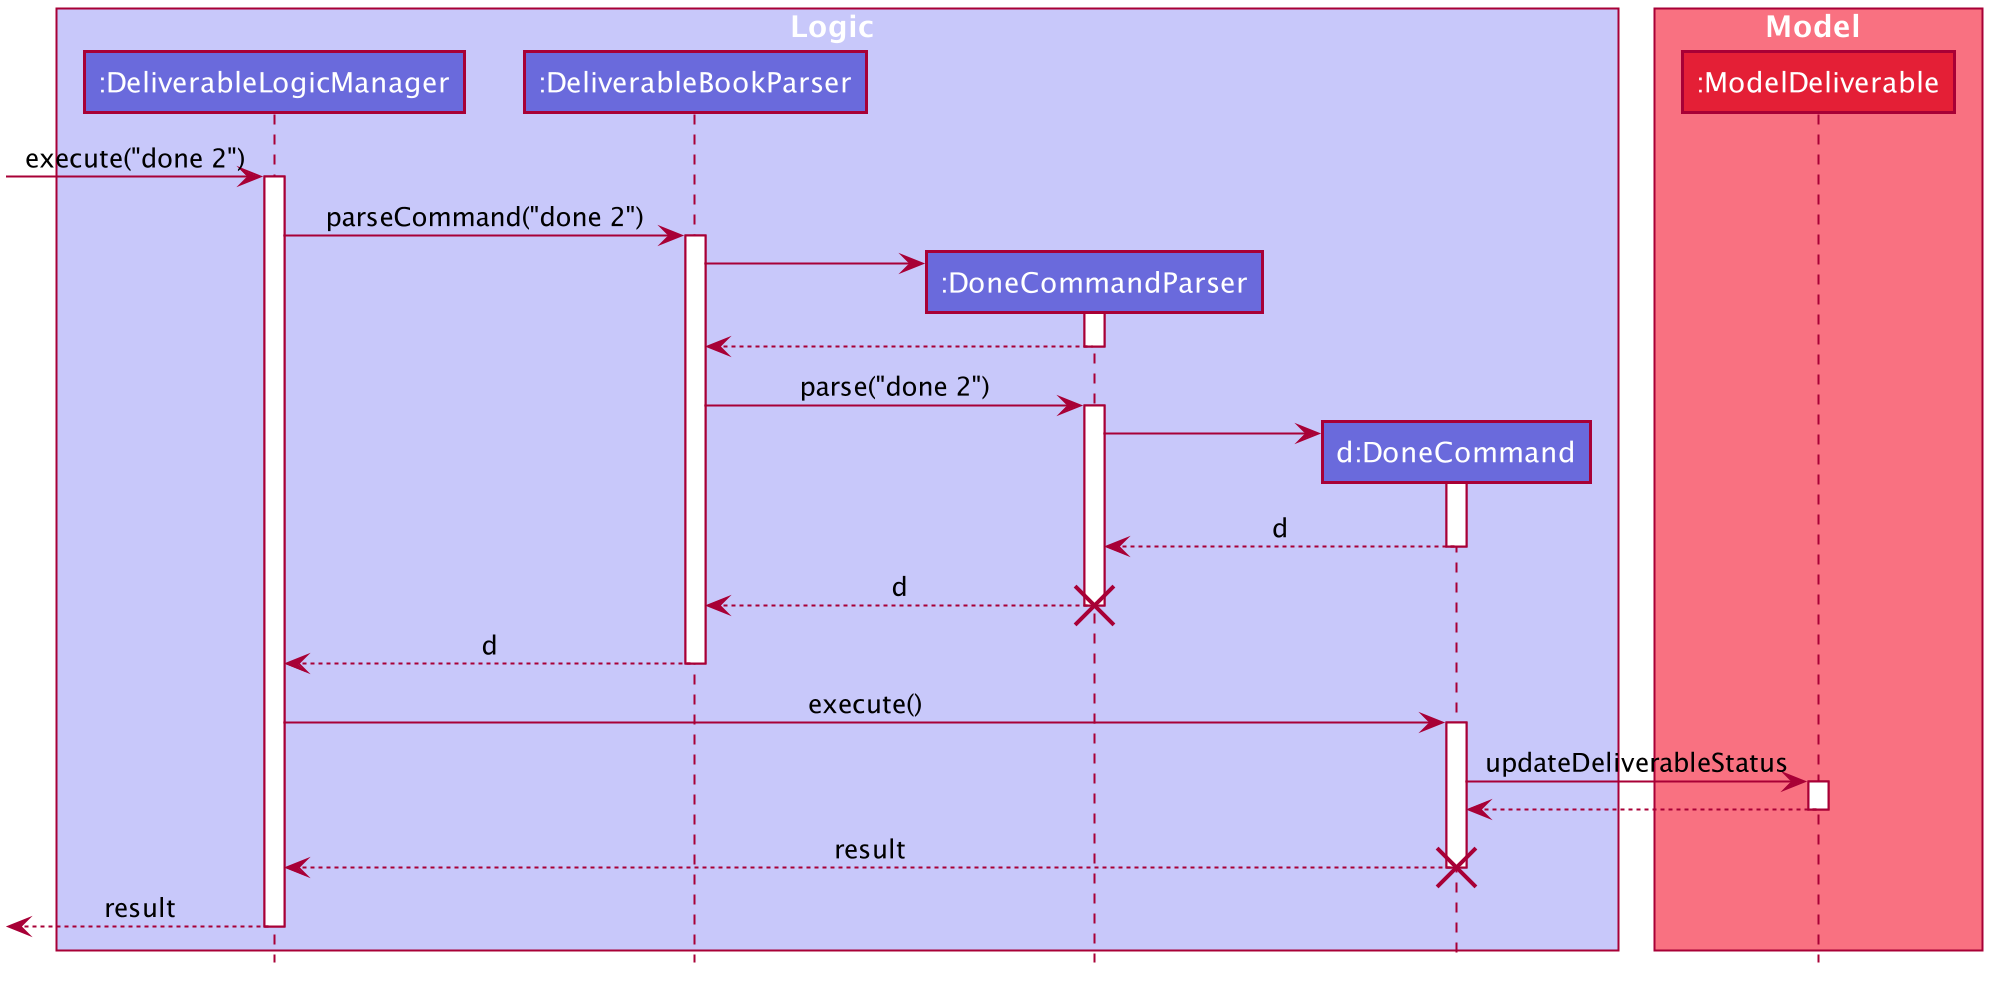
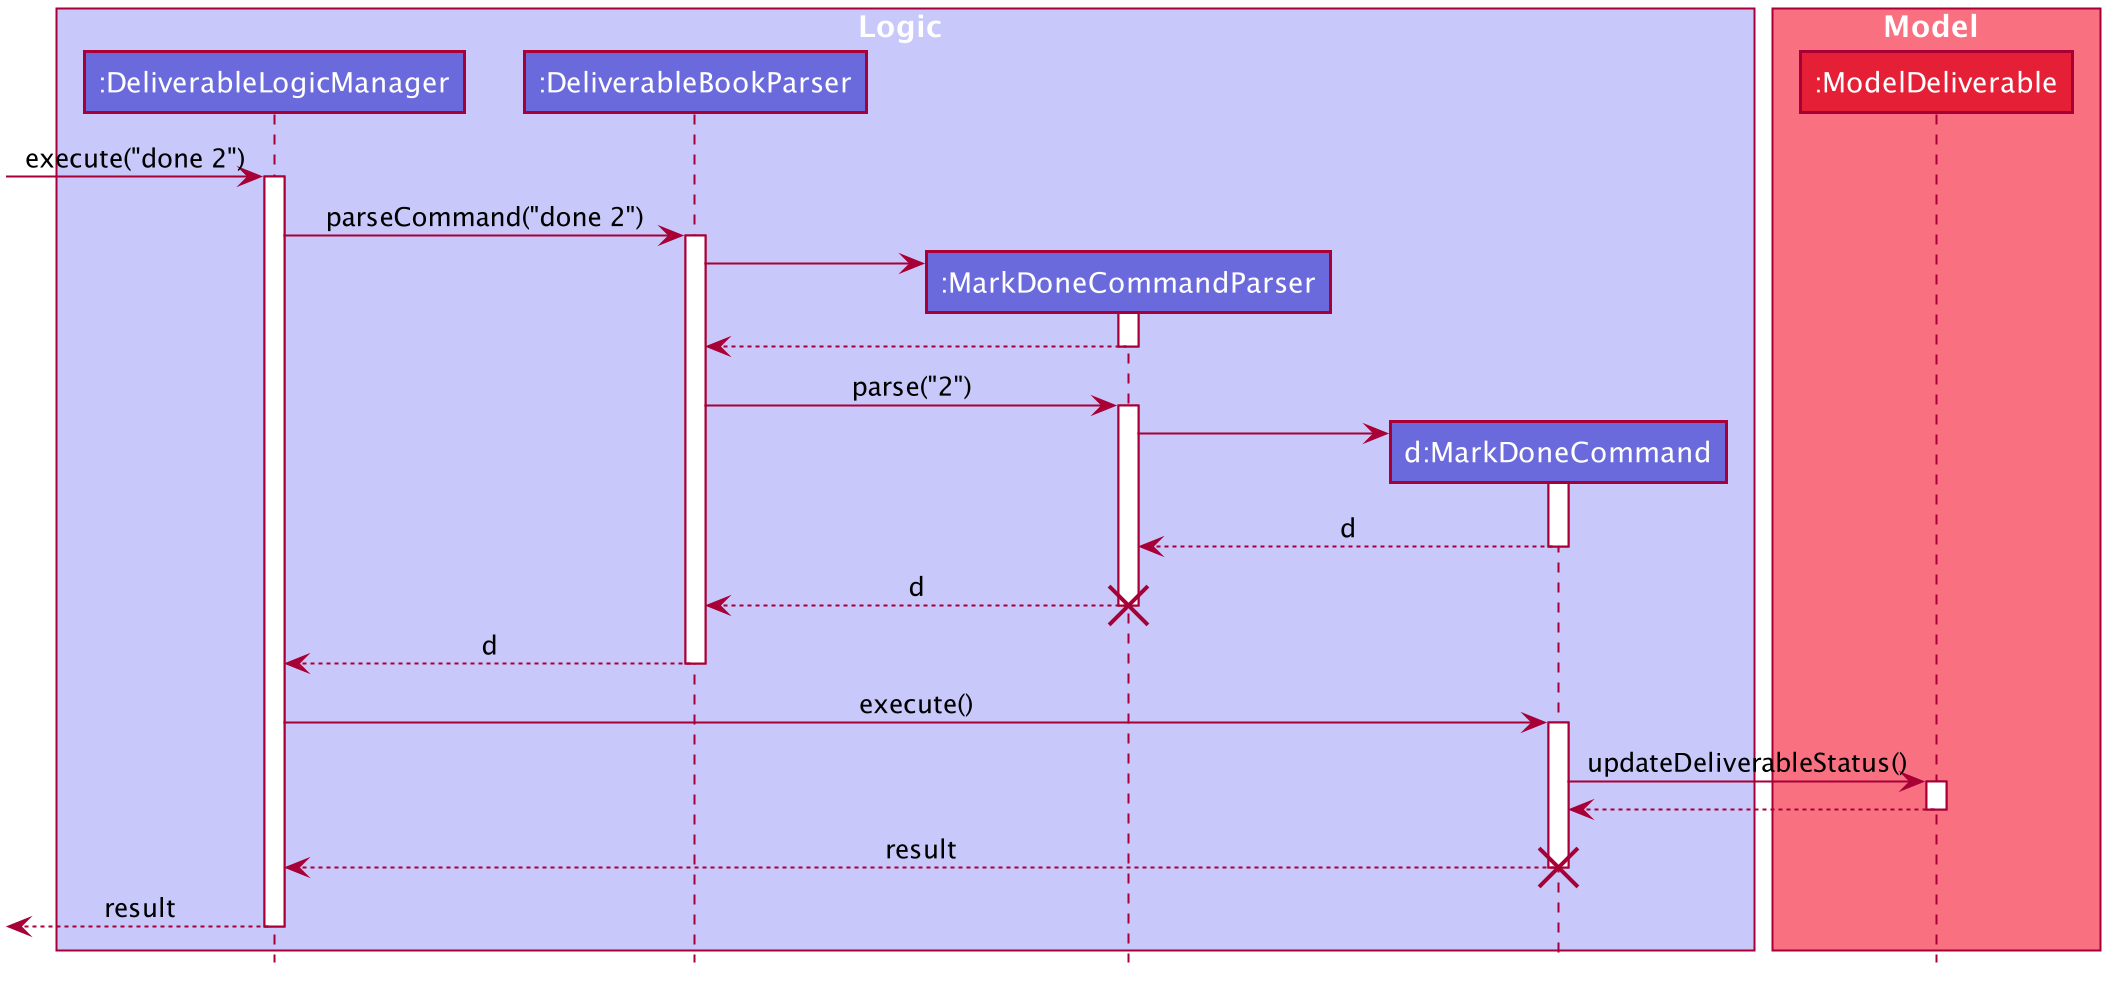
Change DoneCommandParser to MarkDoneCommandParser.

diff --git a/src/main/java/seedu/address/logic/parser/deliverable/DeliverableBookParser.java b/src/main/java/seedu/address/logic/parser/deliverable/DeliverableBookParser.java
@@ -39,9 +39,9 @@ public class DeliverableBookParser {
         case DeleteCommand.COMMAND_WORD:
             return new DeleteCommandParser().parse(arguments);
         case MarkDoneCommand.COMMAND_WORD:
-            return new DoneCommandParser().parse(arguments);
+            return new MarkDoneCommandParser().parse(arguments);
         case MarkUndoneCommand.COMMAND_WORD:
-            return new UndoneCommandParser().parse(arguments);
+            return new MarkUndoneCommandParser().parse(arguments);
         case ViewCommand.COMMAND_WORD:
             return new ViewCommandParser().parse(arguments);
         case EditCommand.COMMAND_WORD:

diff --git a/src/main/java/seedu/address/logic/parser/deliverable/MarkUndoneCommandParser.java b/src/main/java/seedu/address/logic/parser/deliverable/MarkUndoneCommandParser.java
@@ -8,7 +8,7 @@ import seedu.address.logic.commands.deliverable.MarkUndoneCommand;
 import seedu.address.logic.parser.Parser;
 import seedu.address.logic.parser.exceptions.ParseException;
 
-public class UndoneCommandParser implements Parser<MarkUndoneCommand> {
+public class MarkUndoneCommandParser implements Parser<MarkUndoneCommand> {
     @Override
     public MarkUndoneCommand parse(String args) throws ParseException {
         try {

diff --git a/src/main/java/seedu/address/logic/parser/deliverable/MarkDoneCommandParser.java b/src/main/java/seedu/address/logic/parser/deliverable/MarkDoneCommandParser.java
@@ -10,7 +10,7 @@ import seedu.address.logic.parser.exceptions.ParseException;
 /**
  * Parses input arguments and creates a new MarkDoneCommand object
  */
-public class DoneCommandParser implements Parser<MarkDoneCommand> {
+public class MarkDoneCommandParser implements Parser<MarkDoneCommand> {
 
     /**
      * Parses the given {@code String} of arguments in the context of the MarkDoneCommand

diff --git a/src/test/java/seedu/address/logic/parser/deliverable/MarkUndoneCommandParserTest.java b/src/test/java/seedu/address/logic/parser/deliverable/MarkUndoneCommandParserTest.java
@@ -10,7 +10,7 @@ import org.junit.jupiter.api.Test;
 import seedu.address.logic.commands.deliverable.MarkUndoneCommand;
 
 public class MarkUndoneCommandParserTest {
-    private UndoneCommandParser parser = new UndoneCommandParser();
+    private MarkUndoneCommandParser parser = new MarkUndoneCommandParser();
 
     @Test
     void parse_validArgs_returnsUndoneCommand() {

diff --git a/docs/DeveloperGuide.md b/docs/DeveloperGuide.md
@@ -81,7 +81,7 @@ The UI consists of a `MainWindow` that is made up of parts e.g.`CommandBox`, `Re
  of the deliverable that the user is viewing or just performed an operation on. The same idea is applicable for meeting and contact mode.
   
 
-The `UI` component uses JavaFx UI framework. The layout of these UI parts are defined in matching `.fxml` files that are in the `src/main/resources/view` folder. For example, the layout of the [`MainWindow`](https://github.com/AY2021S1-CS2103T-F11-2/tp/blob/master/src/main/java/seedu/address/ui/MainWindow.java) is specified in [`MainWindow.fxml`](https://github.com/AY2021S1-CS2103T-F11-2/tp/blob/master/src/main/resources/view/MainWindow.fxml)
+The `UI` component uses JavaFX UI framework. The layout of these UI parts are defined in matching `.fxml` files that are in the `src/main/resources/view` folder. For example, the layout of the [`MainWindow`](https://github.com/AY2021S1-CS2103T-F11-2/tp/blob/master/src/main/java/seedu/address/ui/MainWindow.java) is specified in [`MainWindow.fxml`](https://github.com/AY2021S1-CS2103T-F11-2/tp/blob/master/src/main/resources/view/MainWindow.fxml)
 
 The `UI` component:
 
@@ -216,10 +216,10 @@ The following sequence diagram shows how a list is autosorted upon an addition o
 
 The Done feature allows users to mark their deliverables as completed. 
 
-1. The user input is received by `MainWindow` in the `UI` component before being passed to `DeliverableLogicManager` to be executed. 
-1. `DeliverableLogicManager` will call `DeliverableBookParser` which will parse the command keyword ("done") to return a `DoneCommandParser`. 
-1. `DoneCommandParser` will then parse the command argument to return a `DoneCommand`.
-1. On execution, `DoneCommand` will set the status of the specified deliverable to completed and update the `ModelDeliverable` accordingly. 
+1. The user input is received by `MainWindow` in the `UI` component before being passed to `DeliverableLogicManager` through `LogicDispatcherManager` to be executed. 
+1. `DeliverableLogicManager` will call `DeliverableBookParser` which will parse the command keyword ("done") to return a `MarkDoneCommandParser`. 
+1. `MarkDoneCommandParser` will then parse the command argument to return a `MarkDoneCommand`.
+1. On execution, `MarkDoneCommand` will set the status of the specified deliverable to completed and update the `ModelDeliverable` accordingly. 
 
 Invalid user inputs such as an invalid index will result in the appropriate error messages displayed to the user.
 
@@ -234,8 +234,8 @@ Given below is a sequence diagram to show how the done operation works at each s
 * **Alternative 1 (current choice):** Have a separate command `done` for marking deliverables as completed.
     * Pros: Clearer and easier for the user. Prevents the `edit` command from being too cluttered with too many
     editable fields.
-    * Cons: More code and testing required as there are additional classes created such as `DoneCommand` and 
-    `DoneCommandParser`.
+    * Cons: More code and testing required as there are additional classes created such as `MarkDoneCommand` and 
+    `MarkDoneCommandParser`.
 * **Alternative 2:** Allow users to mark deliverables as completed through the existing `edit` command by changing 
 the completion status field of the deliverable
     * Pros: Less code required since we only need to make small amendments to the existing `EditCommand` and `EditCommandParser`.
@@ -321,7 +321,7 @@ Given below is a sequence diagram to show how the switch mode mechanism behaves 
 The view feature allows users to view the details of a specific deliverable, meeting or contact on the right
 panel of the display window, depending on the mode the application is in. 
 
-1. Suppose the user in currently in the meeting mode, the user input received by `MainWindow` in `UI` component will be passed to `MeetingLogicManager` to be executed. 
+1. Suppose the user in currently in the meeting mode, the user input received by `MainWindow` in `UI` component will be passed to `MeetingLogicManager` through `LogicDispatcherManager` to be executed. 
 1. `MeetingLogicManager` will call `MeetingBookParser` which will parse the command keyword ("view") to return a `ViewCommandParser`. 
 1. `ViewCommandParser` will then parse the command argument to return a `ViewCommand`.
 1. On execution, `ViewCommand` will update the `ModelMeeting` to set the meeting currently in view. 
